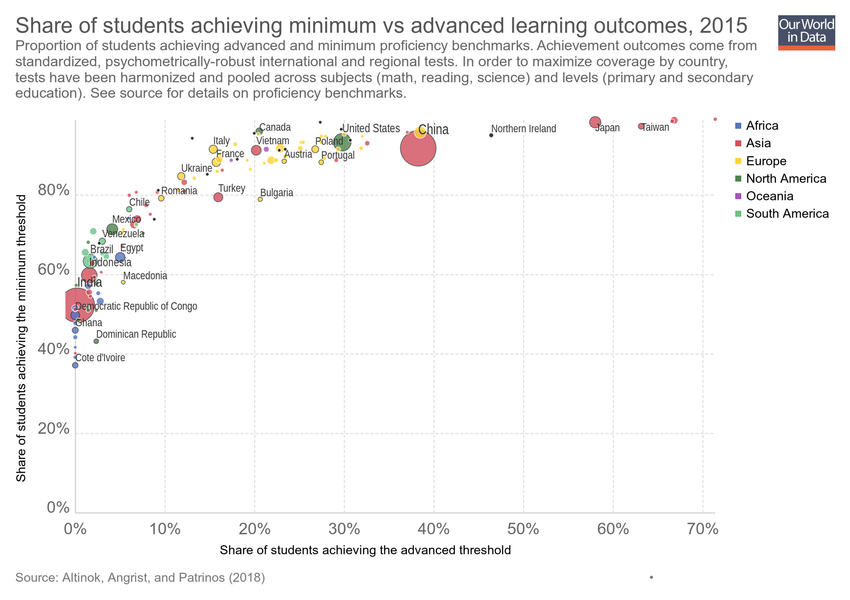
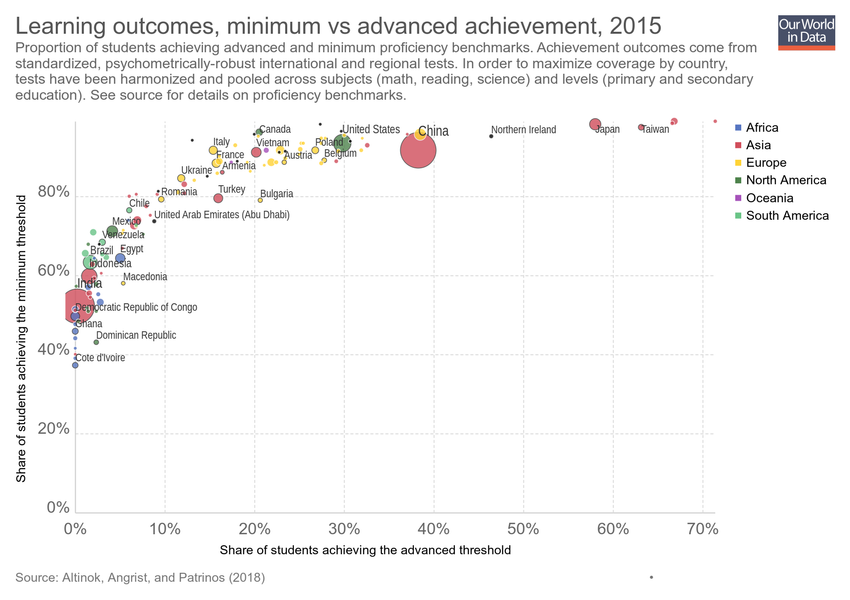
Updating chart share-of-students-achieving-minimum-vs-advanced-learning-outcomes

diff --git a/grapher/share-of-students-achieving-minimum-vs-advanced-learning-outcomes.html b/grapher/share-of-students-achieving-minimum-vs-advanced-learning-outcomes.html
@@ -1,4 +1,4 @@
-<!doctype html><html><head><meta name="viewport" content="width=device-width, initial-scale=1" /><title>Share of students achieving minimum vs advanced learning outcomes - Our World in Data</title><meta name="description" content="Proportion of students achieving advanced and minimum proficiency benchmarks. Achievement outcomes come from standardized, psychometrically-robust international and regional tests. In order to maximize coverage by country, tests have been harmonized and pooled across subjects (math, reading, science) and levels (primary and secondary education). See source for details on proficiency benchmarks." /><link rel="canonical" href="https://ourworldindata.org/grapher/share-of-students-achieving-minimum-vs-advanced-learning-outcomes" /><meta property="fb:app_id" content="1149943818390250" /><meta property="og:url" content="https://ourworldindata.org/grapher/share-of-students-achieving-minimum-vs-advanced-learning-outcomes" /><meta property="og:title" content="Share of students achieving minimum vs advanced learning outcomes" /><meta property="og:description" content="Proportion of students achieving advanced and minimum proficiency benchmarks. Achievement outcomes come from standardized, psychometrically-robust international and regional tests. In order to maximize coverage by country, tests have been harmonized and pooled across subjects (math, reading, science) and levels (primary and secondary education). See source for details on proficiency benchmarks." /><meta property="og:image" content="https://ourworldindata.org/grapher/exports/share-of-students-achieving-minimum-vs-advanced-learning-outcomes.png?v=1" /><meta property="og:image:width" content="850" /><meta property="og:image:height" content="600" /><meta property="og:site_name" content="Our World in Data" /><meta name="twitter:card" content="summary_large_image" /><meta name="twitter:site" content="@OurWorldInData" /><meta name="twitter:creator" content="@OurWorldInData" /><meta name="twitter:title" content="Share of students achieving minimum vs advanced learning outcomes" /><meta name="twitter:description" content="Proportion of students achieving advanced and minimum proficiency benchmarks. Achievement outcomes come from standardized, psychometrically-robust international and regional tests. In order to maximize coverage by country, tests have been harmonized and pooled across subjects (math, reading, science) and levels (primary and secondary education). See source for details on proficiency benchmarks." /><meta name="twitter:image" content="https://ourworldindata.org/grapher/exports/share-of-students-achieving-minimum-vs-advanced-learning-outcomes.png?v=1" /><style>
+<!doctype html><html><head><meta name="viewport" content="width=device-width, initial-scale=1" /><title>Learning outcomes, minimum vs advanced achievement - Our World in Data</title><meta name="description" content="Proportion of students achieving advanced and minimum proficiency benchmarks. Achievement outcomes come from standardized, psychometrically-robust international and regional tests. In order to maximize coverage by country, tests have been harmonized and pooled across subjects (math, reading, science) and levels (primary and secondary education). See source for details on proficiency benchmarks." /><link rel="canonical" href="https://ourworldindata.org/grapher/share-of-students-achieving-minimum-vs-advanced-learning-outcomes" /><meta property="fb:app_id" content="1149943818390250" /><meta property="og:url" content="https://ourworldindata.org/grapher/share-of-students-achieving-minimum-vs-advanced-learning-outcomes" /><meta property="og:title" content="Learning outcomes, minimum vs advanced achievement" /><meta property="og:description" content="Proportion of students achieving advanced and minimum proficiency benchmarks. Achievement outcomes come from standardized, psychometrically-robust international and regional tests. In order to maximize coverage by country, tests have been harmonized and pooled across subjects (math, reading, science) and levels (primary and secondary education). See source for details on proficiency benchmarks." /><meta property="og:image" content="https://ourworldindata.org/grapher/exports/share-of-students-achieving-minimum-vs-advanced-learning-outcomes.png?v=3" /><meta property="og:image:width" content="850" /><meta property="og:image:height" content="600" /><meta property="og:site_name" content="Our World in Data" /><meta name="twitter:card" content="summary_large_image" /><meta name="twitter:site" content="@OurWorldInData" /><meta name="twitter:creator" content="@OurWorldInData" /><meta name="twitter:title" content="Learning outcomes, minimum vs advanced achievement" /><meta name="twitter:description" content="Proportion of students achieving advanced and minimum proficiency benchmarks. Achievement outcomes come from standardized, psychometrically-robust international and regional tests. In order to maximize coverage by country, tests have been harmonized and pooled across subjects (math, reading, science) and levels (primary and secondary education). See source for details on proficiency benchmarks." /><meta name="twitter:image" content="https://ourworldindata.org/grapher/exports/share-of-students-achieving-minimum-vs-advanced-learning-outcomes.png?v=3" /><style>
         html, body {
             height: 100%;
             margin: 0;
@@ -20,8 +20,8 @@
         }
     </style><noscript><style>
                     figure { display: none !important; }
-                </style></noscript><link rel="stylesheet" href="https://ourworldindata.org/grapher/assets/commons.bundle.7bc7a3a90f15cac09df5.css" /><link rel="preload" href="/grapher/data/variables/97676+97678+72+123.json?v=1" as="fetch" crossorigin /></head><body class="singleChart"><figure data-grapher-src="/grapher/share-of-students-achieving-minimum-vs-advanced-learning-outcomes"></figure><noscript id="fallback"><img src="/grapher/exports/share-of-students-achieving-minimum-vs-advanced-learning-outcomes.svg" /><p>Interactive visualization requires JavaScript</p></noscript><script src="https://cdn.polyfill.io/v2/polyfill.min.js?features=es6,fetch"></script><script src="https://ourworldindata.org/grapher/assets/commons.bundle.7bc7a3a90f15cac09df5.js"></script><script src="https://ourworldindata.org/grapher/assets/charts.bundle.7bc7a3a90f15cac09df5.js"></script><script>
-        var jsonConfig = {"map":{"projection":"World","colorSchemeLabels":[],"colorSchemeValues":[],"customNumericColors":[],"customCategoryColors":{},"customCategoryLabels":{},"customHiddenCategories":{}},"tab":"chart","slug":"share-of-students-achieving-minimum-vs-advanced-learning-outcomes","type":"ScatterPlot","title":"Share of students achieving minimum vs advanced learning outcomes","xAxis":{"scaleType":"linear"},"yAxis":{"min":0,"scaleType":"linear"},"maxTime":2015,"minTime":2015,"version":1,"subtitle":"Proportion of students achieving advanced and minimum proficiency benchmarks. Achievement outcomes come from standardized, psychometrically-robust international and regional tests. In order to maximize coverage by country, tests have been harmonized and pooled across subjects (math, reading, science) and levels (primary and secondary education). See source for details on proficiency benchmarks.","hasMapTab":false,"stackMode":"absolute","dimensions":[{"display":{"name":"Share of students achieving the minimum threshold","tolerance":5},"property":"y","variableId":97676},{"display":{"name":"Share of students achieving the advanced threshold","tolerance":5},"property":"x","variableId":97678},{"display":{},"property":"size","variableId":72},{"display":{},"property":"color","variableId":123}],"isAutoSlug":true,"hasChartTab":true,"isPublished":true,"selectedData":[],"id":2901};
+                </style></noscript><link rel="stylesheet" href="https://ourworldindata.org/grapher/assets/commons.bundle.7bc7a3a90f15cac09df5.css" /><link rel="preload" href="/grapher/data/variables/97676+97678+72+123.json?v=3" as="fetch" crossorigin /></head><body class="singleChart"><figure data-grapher-src="/grapher/share-of-students-achieving-minimum-vs-advanced-learning-outcomes"></figure><noscript id="fallback"><img src="/grapher/exports/share-of-students-achieving-minimum-vs-advanced-learning-outcomes.svg" /><p>Interactive visualization requires JavaScript</p></noscript><script src="https://cdn.polyfill.io/v2/polyfill.min.js?features=es6,fetch"></script><script src="https://ourworldindata.org/grapher/assets/commons.bundle.7bc7a3a90f15cac09df5.js"></script><script src="https://ourworldindata.org/grapher/assets/charts.bundle.7bc7a3a90f15cac09df5.js"></script><script>
+        var jsonConfig = {"id":2901,"map":{"projection":"World","colorSchemeLabels":[],"colorSchemeValues":[],"customNumericColors":[],"customCategoryColors":{},"customCategoryLabels":{},"customHiddenCategories":{}},"tab":"chart","slug":"share-of-students-achieving-minimum-vs-advanced-learning-outcomes","type":"ScatterPlot","title":"Learning outcomes, minimum vs advanced achievement","xAxis":{"scaleType":"linear"},"yAxis":{"min":0,"scaleType":"linear"},"maxTime":2015,"minTime":2015,"version":3,"subtitle":"Proportion of students achieving advanced and minimum proficiency benchmarks. Achievement outcomes come from standardized, psychometrically-robust international and regional tests. In order to maximize coverage by country, tests have been harmonized and pooled across subjects (math, reading, science) and levels (primary and secondary education). See source for details on proficiency benchmarks.","hasMapTab":false,"stackMode":"absolute","dimensions":[{"display":{"name":"Share of students achieving the minimum threshold","tolerance":5},"property":"y","variableId":97676},{"display":{"name":"Share of students achieving the advanced threshold","tolerance":5},"property":"x","variableId":97678},{"display":{},"property":"size","variableId":72},{"display":{},"property":"color","variableId":123}],"hasChartTab":true,"isPublished":true,"selectedData":[]};
         var figure = document.getElementsByTagName("figure")[0];
         try {
             window.App = {};
